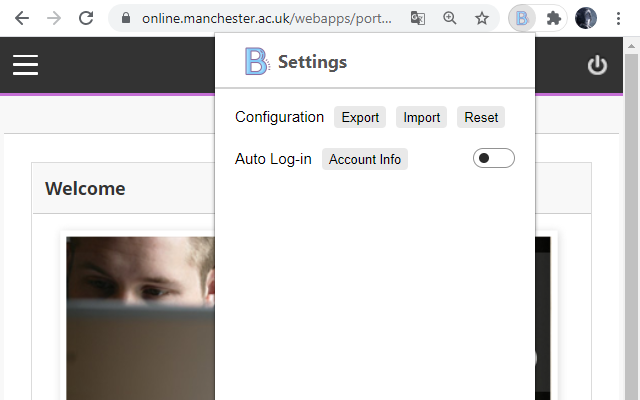
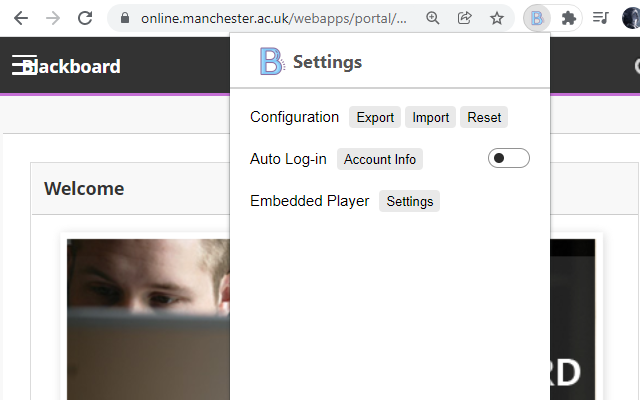
release: v0.1.6

diff --git a/changelog.md b/changelog.md
@@ -1,3 +1,9 @@
+# v0.1.6 `16/12/2021`
+## Add Features
++ Save and override caption styles of embedded player.
+# Bug Fixes
++ Fix error when there is no caption available.
+
 # v0.1.5 `23/10/2021`
 ## Bug Fixes
 + Check input constraints for *Live Session Port*
